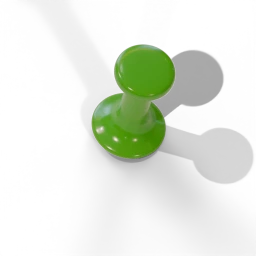
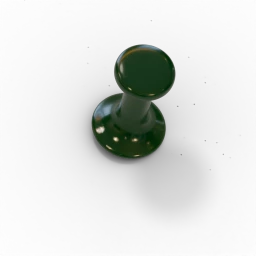
Single-shadow push pins in four colours, clearer tape, refraction without edge lines
- Push pins come in blue, yellow, red and dark green. The HDRI now
  lights only their reflections, so each pin casts one shadow.
- Tape is nearly clear film: faint body, crisp edges, glossy creases,
  and a ridge where a strip crosses the print edge. The stylesheet no
  longer adds a second shadow.
- Glass refraction samples inward, removing the dark line along the
  lower and right rims. The keys and About panels refract too.

Changed region(s): [[0.2812, 0.1562, 0.875, 0.6562], [0.7812, 0.5, 1.0, 0.7188], [0.6875, 0.5938, 0.7812, 0.6562]]

diff --git a/src/table/layout.ts b/src/table/layout.ts
@@ -92,7 +92,7 @@ export function sheetOffsets(widths: number[], current: number, gutter: number):
 // within each, the placement and the number of pieces step through every
 // arrangement, so neighbouring prints never hang the same way.
 const TAPE_LAYOUTS = ["corners", "top-corners", "diagonal", "top-strip"] as const;
-const PIN_COLOURS = ["red", "blue", "green", "yellow", "white"] as const;
+const PIN_COLOURS = ["blue", "yellow", "red", "green"] as const;
 const PIN_COUNTS = [2, 1, 4] as const;
 export type TapeLayout = typeof TAPE_LAYOUTS[number];
 export type PinColour = typeof PIN_COLOURS[number];
@@ -105,8 +105,8 @@ export interface Print { i: number; x: number; y: number; w: number; h: number; 
 function holdFor(i: number, seed: number): Hold {
   const k = i >> 1;
   if (i % 2 === 0) return { kind: "tape", layout: TAPE_LAYOUTS[(k + seed) % 4], variant: rnd(seed * 97 + i * 7 + 41) < 0.5 ? 1 : 2 };
-  // 5 colours and 3 counts share no factor, so both change from print to print.
-  return { kind: "pins", colour: PIN_COLOURS[(k * 2 + seed) % 5], count: PIN_COUNTS[(k + seed) % 3] };
+  // 4 colours and 3 counts share no factor, so both change from print to print.
+  return { kind: "pins", colour: PIN_COLOURS[(k + seed) % 4], count: PIN_COUNTS[(k + seed) % 3] };
 }
 
 export interface BoardView { w: number; h: number; cy: number }

diff --git a/src/table/layout.test.ts b/src/table/layout.test.ts
@@ -103,6 +103,6 @@ test("neighbouring prints never hang the same way", () => {
   }
   // Every tape placement, pin colour and pin count appears across a dozen prints.
   assert.equal(new Set(taped.map(h => h.kind === "tape" && h.layout)).size, 4);
-  assert.equal(new Set(pinned.map(h => h.kind === "pins" && h.colour)).size, 5);
+  assert.equal(new Set(pinned.map(h => h.kind === "pins" && h.colour)).size, 4);
   assert.equal(new Set(pinned.map(h => h.kind === "pins" && h.count)).size, 3);
 });

diff --git a/src/light-table.css b/src/light-table.css
@@ -140,7 +140,6 @@ picture { display: contents; }
    the top) or by pins (push, ball-head or drawing pins; one, two or four).
    All are Blender renders, placed and turned per print from Board.tsx. */
 .ns-tape, .ns-pin { position: absolute; z-index: 5; height: auto; max-width: none; pointer-events: none; }
-.ns-tape { filter: drop-shadow(1px 3px 2px rgba(37,19,7,.26)); }
 .ns-pin { z-index: 6; }
 
 /* ---------- Loupe ----------

diff --git a/art/pins.py b/art/pins.py
@@ -4,7 +4,7 @@ Blender 5.2 (Cycles on the GPU):
   blender -b -P art/pins.py
   blender -b -P art/pins.py -- samples=384 size=512   # finer
 
-A moulded push pin (dished flare, fluted grip, thumb disc) in five colours,
+A moulded push pin (dished flare, fluted grip, thumb disc) in four colours,
 each at two leans. The room is lit by Blender's bundled CC0 interior HDRI plus
 a lamp over the table, so reflections come from a real room rather than a few
 cards. A shadow catcher records each pin's shadow on the print, so the WebP
@@ -30,8 +30,8 @@ OUT = os.path.join(ROOT, "src", "assets", "pins")
 RENDERS = os.path.join(ROOT, "art", "renders", "pins")
 HDRI = glob.glob(os.path.join(os.path.dirname(bpy.app.binary_path), "..", "Resources", "*", "datafiles", "studiolights", "world", "interior.exr"))
 
-# Moulded plastic, sRGB. Red, blue and green echo the studio's mark.
-PLASTICS = {"red": "#C81E17", "blue": "#1F3FD0", "green": "#3DAE17", "yellow": "#EDB300", "white": "#EFEDE6"}
+# Moulded plastic, sRGB: blue, yellow, red and a dark green.
+PLASTICS = {"blue": "#1F3FD0", "yellow": "#EDB300", "red": "#C81E17", "green": "#15522A"}
 # (lean in degrees, lean direction in degrees): a pin is never perfectly upright.
 LEANS = [(6.0, 140), (9.0, 35)]
 
@@ -62,7 +62,11 @@ def setup(scene, size, samples):
 
 
 def world(scene):
-    """The bundled hotel-room HDRI, warmed to match the lamp over the table."""
+    """The bundled hotel-room HDRI, seen only in reflections.
+
+    Diffuse light and shadows come from an even ambient and the one lamp,
+    so each pin casts a single shadow instead of one per bright window.
+    """
     w = bpy.data.worlds.new("Room")
     w.use_nodes = True
     nodes, links = w.node_tree.nodes, w.node_tree.links
@@ -76,7 +80,13 @@ def world(scene):
         coords = nodes.new("ShaderNodeTexCoord")
         links.new(coords.outputs["Generated"], mapping.inputs["Vector"])
         links.new(mapping.outputs["Vector"], env.inputs["Vector"])
-        links.new(env.outputs["Color"], bg.inputs["Color"])
+        paths = nodes.new("ShaderNodeLightPath")
+        ambient = nodes.new("ShaderNodeMix")
+        ambient.data_type = "RGBA"
+        ambient.inputs[6].default_value = (*srgb("#F2ECE2"), 1)
+        links.new(paths.outputs["Is Glossy Ray"], ambient.inputs[0])
+        links.new(env.outputs["Color"], ambient.inputs[7])
+        links.new(ambient.outputs[2], bg.inputs["Color"])
     else:
         bg.inputs["Color"].default_value = (*srgb("#E9E1D6"), 1)
     scene.world = w
@@ -142,7 +152,7 @@ def plastic(colour, fluted):
     bsdf = nodes["Principled BSDF"]
     bsdf.inputs["Base Color"].default_value = (*srgb(colour), 1)
     bsdf.inputs["IOR"].default_value = 1.49
-    bsdf.inputs["Subsurface Weight"].default_value = 0.3 if colour == PLASTICS["white"] else 0.15
+    bsdf.inputs["Subsurface Weight"].default_value = 0.15
     bsdf.inputs["Subsurface Radius"].default_value = (1.0, 0.5, 0.3)
     bsdf.inputs["Subsurface Scale"].default_value = 0.8
     bsdf.inputs["Coat Weight"].default_value = 0.35
@@ -236,7 +246,7 @@ def main():
     camera(scene)
     # The lamp over the table: a broad key from the upper left throws the
     # shadow down and to the right, matching the prints' own shadows.
-    area(scene, "Table lamp", (-24, 28, 72), 4200, 14, "#FFF3E2")
+    area(scene, "Table lamp", (-24, 28, 72), 7000, 14, "#FFF3E2")
     board()
 
     root, head = build(scene)

diff --git a/art/tape.py b/art/tape.py
@@ -76,19 +76,21 @@ def film_material():
         "From Max": half_length.outputs[0],
         "To Min": 0.0, "To Max": 1.0,
     }).outputs[0]
-    # Most of the photograph stays visible through the film.
-    opacity = n.math("ADD", 0.27, n.math("MULTIPLY", grain, 0.14))
-    opacity = n.math("ADD", opacity, n.math("MULTIPLY", outer_edge, 0.21))
-    opacity = n.math("ADD", opacity, n.math("MULTIPLY", cut_edge, 0.14))
-    roughness = n.math("ADD", 0.24, n.math("MULTIPLY", grain, 0.12))
-    bump = n.add("Bump", inputs={"Strength": 0.04, "Distance": 0.018, "Height": micro})
+    # Real clear tape is nearly invisible: a faint haze in the body, crisper
+    # long edges, and serrated cut ends that scatter light. What gives it
+    # away is gloss, so the lamp's reflection does most of the work.
+    opacity = n.math("ADD", 0.11, n.math("MULTIPLY", grain, 0.08))
+    opacity = n.math("ADD", opacity, n.math("MULTIPLY", outer_edge, 0.34))
+    opacity = n.math("ADD", opacity, n.math("MULTIPLY", cut_edge, 0.22))
+    roughness = n.math("ADD", 0.08, n.math("MULTIPLY", grain, 0.1))
+    bump = n.add("Bump", inputs={"Strength": 0.06, "Distance": 0.018, "Height": micro})
     body = n.add("BsdfPrincipled", inputs={
         "Base Color": (*srgb((246, 241, 227)), 1),
         "Roughness": roughness,
         "IOR": 1.47,
         "Normal": bump.outputs["Normal"],
-        "Coat Weight": 0.35,
-        "Coat Roughness": 0.19,
+        "Coat Weight": 0.6,
+        "Coat Roughness": 0.06,
     })
     transparent = n.add("BsdfTransparent")
     mix = n.add("MixShader", inputs=[opacity, transparent.outputs[0], body.outputs[0]])
@@ -125,6 +127,10 @@ def film_mesh(scene, material, length, angle, seed, corner):
             x = left + s * (right - left)
             yy = y + (waviness if j == 0 else -waviness if j == ny else 0)
             z = 0.055
+            if not corner:
+                # A strip straddles the print's edge, which lifts the film a
+                # fraction of a millimetre: a ridge the raking light picks out.
+                z += .20 * math.exp(-((yy + .4) / 1.0) ** 2)
             for cx, cy, slant, amp in creases:
                 across = (x - cx) * math.cos(slant) + (yy - cy) * math.sin(slant)
                 along = -(x - cx) * math.sin(slant) + (yy - cy) * math.cos(slant)

diff --git a/art/finish_tape.py b/art/finish_tape.py
@@ -24,7 +24,7 @@ def finish(image):
     film = image.getchannel("A")
     shadow = Image.new("L", image.size)
     shadow.paste(film, (max(1, round(w * .002)), max(2, round(h * .017))))
-    shadow = shadow.filter(ImageFilter.GaussianBlur(max(1.2, h * .010))).point(lambda a: round(a * .43))
+    shadow = shadow.filter(ImageFilter.GaussianBlur(max(1.2, h * .010))).point(lambda a: round(a * .3))
     layer = Image.new("RGBA", image.size, SHADOW_COLOR + (0,))
     layer.putalpha(shadow)
     return Image.alpha_composite(layer, image)

diff --git a/art/README.md b/art/README.md
@@ -53,5 +53,5 @@ python3 art/finish_tape.py art/renders/tape src/assets/tape
 - **Cork** (`cork.py`, `finish_cork.py`): a procedural board of layered Voronoi granules with true displacement, sampled on a torus so the tile repeats seamlessly. The finishing step grades it to the table's tone and writes WebP and AVIF.
 - **Liquid glass** (`liquid_glass.py`): a thick glass slab with a pillowed shoulder, lit by Blender's bundled CC0 studio HDRI and one lamp to the upper left. Only the shoulder keeps its reflections, so the rim carries a bright line along the top that rolls around the corner rather than an even outline. CSS lays it over every bar and panel as a nine-slice `border-image`. The same outline, cut from a deep block with a round shoulder, is rendered a second time as a surface-normal map; `src/table/glass.ts` nine-slices it to each bar and feeds it to an SVG `feDisplacementMap`, so in Chromium the cork and photographs bend at the rim like real glass.
 - **Loupe** (`preview_loupe.py`): a stand loupe seen from overhead, with a clear acrylic light-collecting skirt, a black anodised barrel with turned machining, and a brushed aluminium bezel. The aperture stays transparent for the live magnified crop.
-- **Push pins** (`pins.py`): moulded push pins (dished flare, fluted grip, thumb disc, steel needle) in red, blue, green, yellow, and white, each at two leans. Reflections come from Blender's CC0 interior HDRI, and a shadow catcher records each pin's real shadow on the print.
+- **Push pins** (`pins.py`): moulded push pins (dished flare, fluted grip, thumb disc, steel needle) in blue, yellow, red, and dark green, each at two leans. The CC0 interior HDRI appears only in their reflections; diffuse light comes from an even ambient and one lamp, so each pin casts a single shadow, recorded by a shadow catcher.
 - **Tape** (`tape.py`, `finish_tape.py`): thin, torn, translucent film as short corner pieces and longer strips. The board hangs each print by tape in one of four placements (all corners, top corners, a diagonal pair, or one strip across the top) or by one, two, or four pins, and neighbouring prints never repeat.

diff --git a/docs/QA.md b/docs/QA.md
@@ -8,7 +8,7 @@
 - The keyboard and About panels no longer show scroll bars; on short windows only their contents scroll, and the keys dialog switches to a compact layout.
 - Alt-text drafts moved to Qwen3-VL 8B with a stricter prompt, a 1280 px input, and no shoot title in the prompt. On the 17 curated photographs it stopped inventing frisbees, "fall league" games and dives, and describes poses literally. Drafts are still reviewed before saving.
 - The cork tile was re-rendered from `art/cork.py`: its mean colour and spread match the previous tile exactly, 98% of pixels are within 8 levels, and the AVIF is 246 KB.
-- Push pins were re-rendered with Blender's CC0 interior HDRI and a real cast shadow, and shown smaller (56 px). Prints alternate clear tape (four placements) and pins (one, two, or four, in five colours) so neighbours never match.
+- Push pins were re-rendered with Blender's CC0 interior HDRI and a real cast shadow, and shown smaller (56 px). Prints alternate clear tape (four placements) and push pins (one, two, or four, in blue, yellow, red, and dark green) so neighbours never match. Each pin casts one shadow, and the tape is nearly clear film with glossy edges.
 - The liquid-glass rim was re-rendered with the studio HDRI and one lamp, keeping only the shoulder's reflections. In Chromium, a Blender normal map drives an SVG displacement filter, so the backdrop refracts at the rim; Safari and Firefox keep the frosted fallback.
 
 
